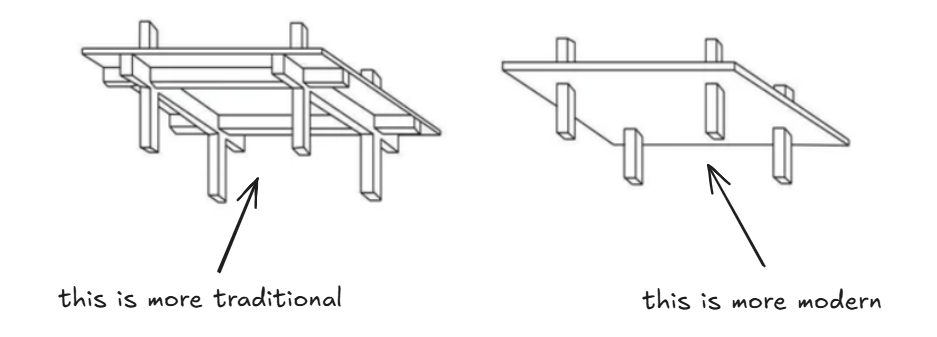
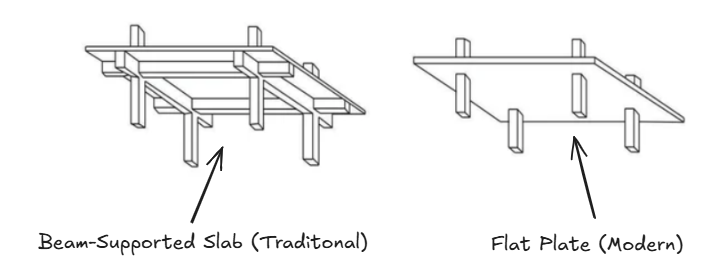
update readme

diff --git a/README.md b/README.md
@@ -419,30 +419,65 @@ column1.rotate(angle=45)
 
 ## Theoretical Background
 
-### 1.0 Punching Shear Introduction
+### 1.0 Introduction
 
-Two-way shear, known colloquially as punching shear, is a load transfer mechanism between concrete two-way slabs and its supporting columns. Punching shear failures are absolutely catastrophic and keeps engineers up at night (looks like and analogous to pencil through paper). 
+Two-way shear - known colloquially as punching shear - is a load transfer mechanism between concrete slabs and its supporting columns. This type of load transfer is unique to a special type of floor system known as **flat plate** (or flat slab when there's drop panels or column caps), whereby the two-way spanning slab is supported directly by columns; no beams, no girders, just a smooth monolithic plate.
 
-A more traditional concrete floor system might have a load path that looks like this:
+In the figure below, we see two types of concrete floor systems. The one on the left is a more traditional approach, whereby the slab is supported by beams, which then transfer the load to the columns. The one on the right is more modern, it has a completely flat soffit, and it eliminates the need to any beams at all.
 
-* loads > one-way slab panels > beams and/or girders > columns
+<img src="./doc/theory1.png" width="70%">
 
-Whereas a more modern concrete floor system might have a load path that looks like this:
+It is easy to see why beam-supported slab systems have fallen out of favor. Beams and girders must be shaped with formwork, which means more carpentry work, which means more labor, higher cost, and longer construction time. On the other hand, flat plate slabs are easier to build, reduce complexity in terms of detailing, give MEP trade partners full flexibility in the ceiling space (no more coring through beams), and minimize formwork (see [flying form](https://www.concrete.org.uk/fingertips-nuggets.asp?cmd=display&id=536)). Furthermore, the shallow floor depths means more floors can fit within the same building height constraint. This is a no-brainer decision for developers. Most concrete high-rises in the US today have flat plate floor systems. 
 
-* loads > two-way slabs > columns
+So what is the trade-off? The lack of supporting beams means **less redundancy** and **high shear stress** around the supporting columns. Flat plate slabs fail like a pencil through paper, and if the slab fails, that's the end. The figure below is an illustration of punching shear failure. The photo on the left is a garage in the UK (Piper's Row Car Park, Wolverhampton) built in the 1960s. Punching shear failures are absolutely catastrophic and keeps engineers up at night. Needless to say, the accurate evaluation of punching shear has become critically important.
 
-![img](./doc/theory1.png)
+<img src="./doc/theory2.png" width="50%">
 
-The traditional system has a very clear and easy-to-calculate load path. It's a statics calculation for the slab panels, then another for the beams/girders. Everything is doable by hand. Punching shear check is not required if the beams are deep enough (which they usually are). Instead, the engineer needs to check is one-way shear in the girders. The downside for this type of construction is that beams and girders equals more formwork, which means more carpentry work, which means more labor, higher cost, longer construction time.
+### 2.0 Punching Shear Calculation Per ACI-318
 
-The modern approach reduces labor, cost, and time by drastically simplifying the floor system in terms of the number of pieces. However, two-way slabs tend to be more complex to analyze, with messy force distributions, and deflection that is hard to predict. In the old days, engineers used the direct design method to design two-way slabs. It's quite tedious and have a lot of limitations. Things really changed once FEM became more prominent in industry practice. Most concrete high-rises in the US today have this type of lean and light floor system. The increase in efficiency comes with a decrease in redundancy. If the slab fails, that's it. Those shear stresses are typically quite high, and their consideration is extremely important.
+The evaluation of punching shear is conceptually simple (we will introduce more nuances later on). Assuming negligible moment transfer, the shear stress is equal to the load transfer to the column divided by the total area of the failure plane. This failure plane is an inverted truncated cone. To simplify, ACI-318 allows the critical **shear perimeter** to be approximated as being d/2 offset from the column face. See figure below. 
+
+<img src="./doc/theory3.png" width="30%">
+
+Therefore, the total shear area of the critical section is equal to the perimeter ($b_o$) times the slab depth ($d$). Note slab depth is measured from the extreme compression fiber to tension rebar (taking the average depth of the two-orthogonal rebar directions).
+
+$$A_v = b_o d$$
+
+Therefore, the punching shear stress **with negligible moment transfer** is equal to the total shear demand ($V_u$) on the column, divided by the shear area above.
+
+$$v_u = \frac{V_u}{b_od}$$
+
+However, it is unreasonable to assume zero moment transfer! Especially not for edge and corner columns. Most column-slab joints in real buildings will experience some moment transfer. Concrete buildings are monolithic after all - there is no such thing as pinned in concrete design. The only time it is reasonable to assume negligible moment is in an idealized world where cows are spheres and there's no friction, and we have an interior column with perfectly even loading, no openings, and equal spans in all adjacent bays. The equation above is only really good as a preliminary estimate. Moment transfer can arise from unequal spans, uneven load distribution, uneven stiffness, and many other reasons. 
+
+The slab moment transferred into the columns is known as **unbalanced moment** ($M_{sc}$). The reason it is called "unbalanced" is because of the vertical offsets present in the slab moment diagram. I don't like this name because everything is balanced for static equilibrium. If we plot the moment diagram for an floor assembly, we see exactly where that unbalanced moment is going: into the columns. 
+
+<img src="./doc/theory4.png" width="50%">
+
+This unbalanced moment can transfer into the columns in two ways: 1.) flexure within a transfer width, and 2.) eccentric shear. The second load path is of interest for us because it amplifies shear stress. 
+
+<img src="./doc/theory5.png" width="30%">
+
+To account for the effect of moment transfer, ACI-318 provides an equation that is vaguely reminiscent of the elastic stress equations with see in college textbooks ($P/A + Mc/I$):
+
+$$v_u = \frac{V_u}{b_o d} + \frac{\gamma M c}{J}$$
+
+First, on the capacity side, I won't be covering this in detail. Please refer to the building code for more detail. In general, the allowable shear stress ranges from $2\sqrt{f'_c}$ to  $4\sqrt{f'_c}$
+
+
+
+IN PROGRESS
+
+
+
+### 2.0 History
 
 
 
 
 
 
-### 2.0 History - What The Heck Is J?
+
+
 
 
 ### 3.0 Elastic Method
@@ -451,7 +486,7 @@ The modern approach reduces labor, cost, and time by drastically simplifying the
 ### 4.0 Numerical Approximation with wthisj
 
 
-### 5.0 Nuances
+### 5.0 Other Nuances
 
 
 
@@ -461,9 +496,7 @@ The modern approach reduces labor, cost, and time by drastically simplifying the
 
 TODO
 
-
-
-
+* units, difference in J formulation, numerical approximation, max stress at point vs surface
 
 
 
